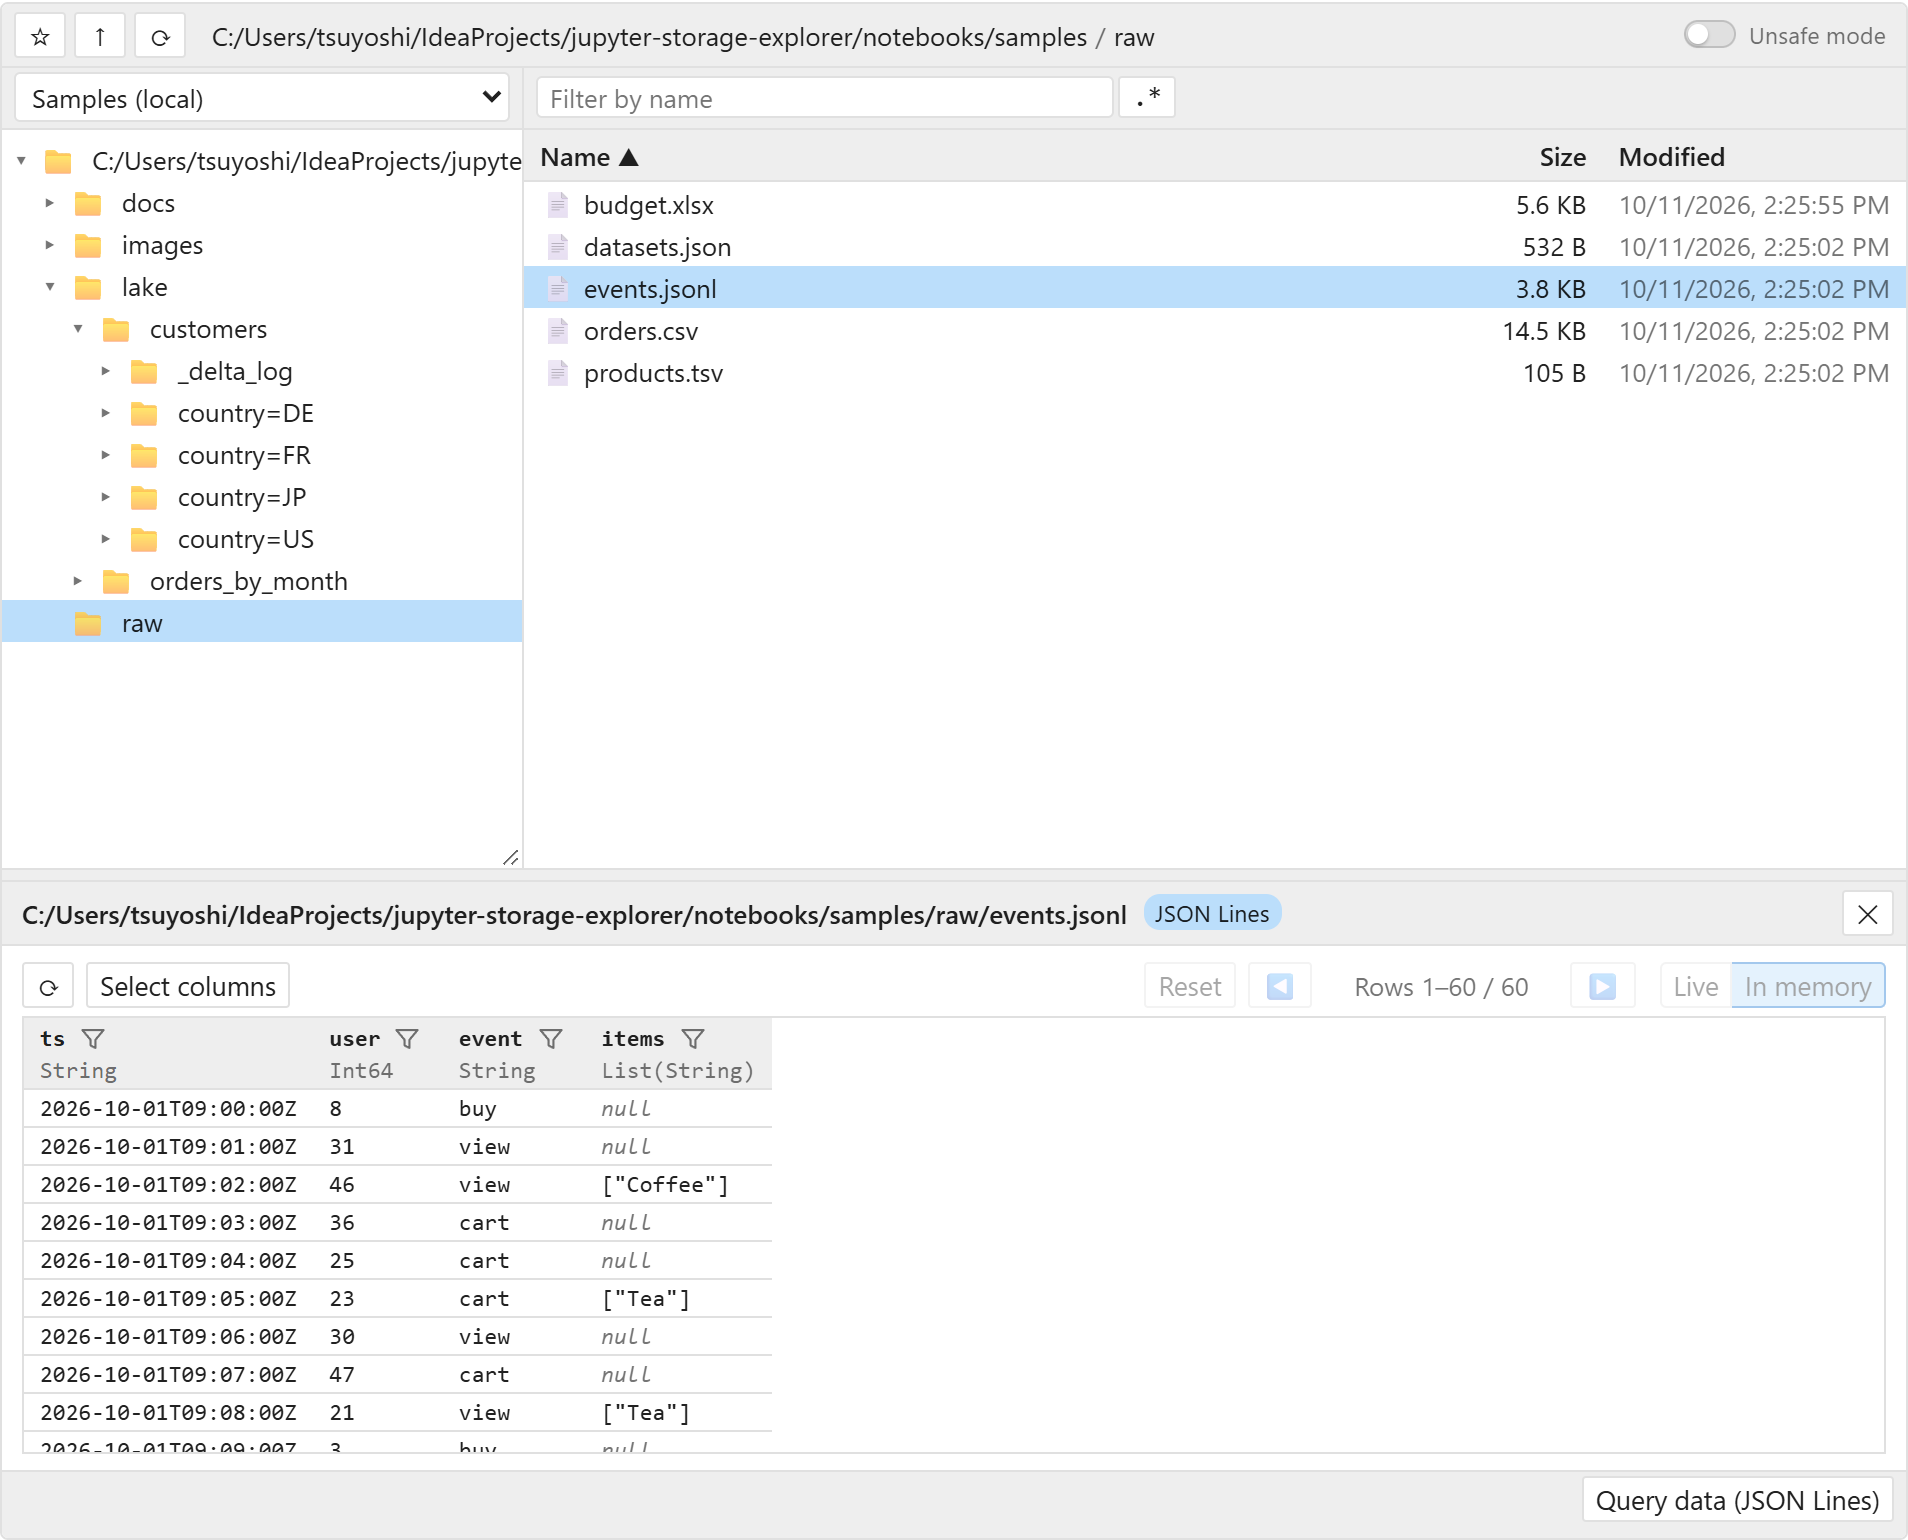
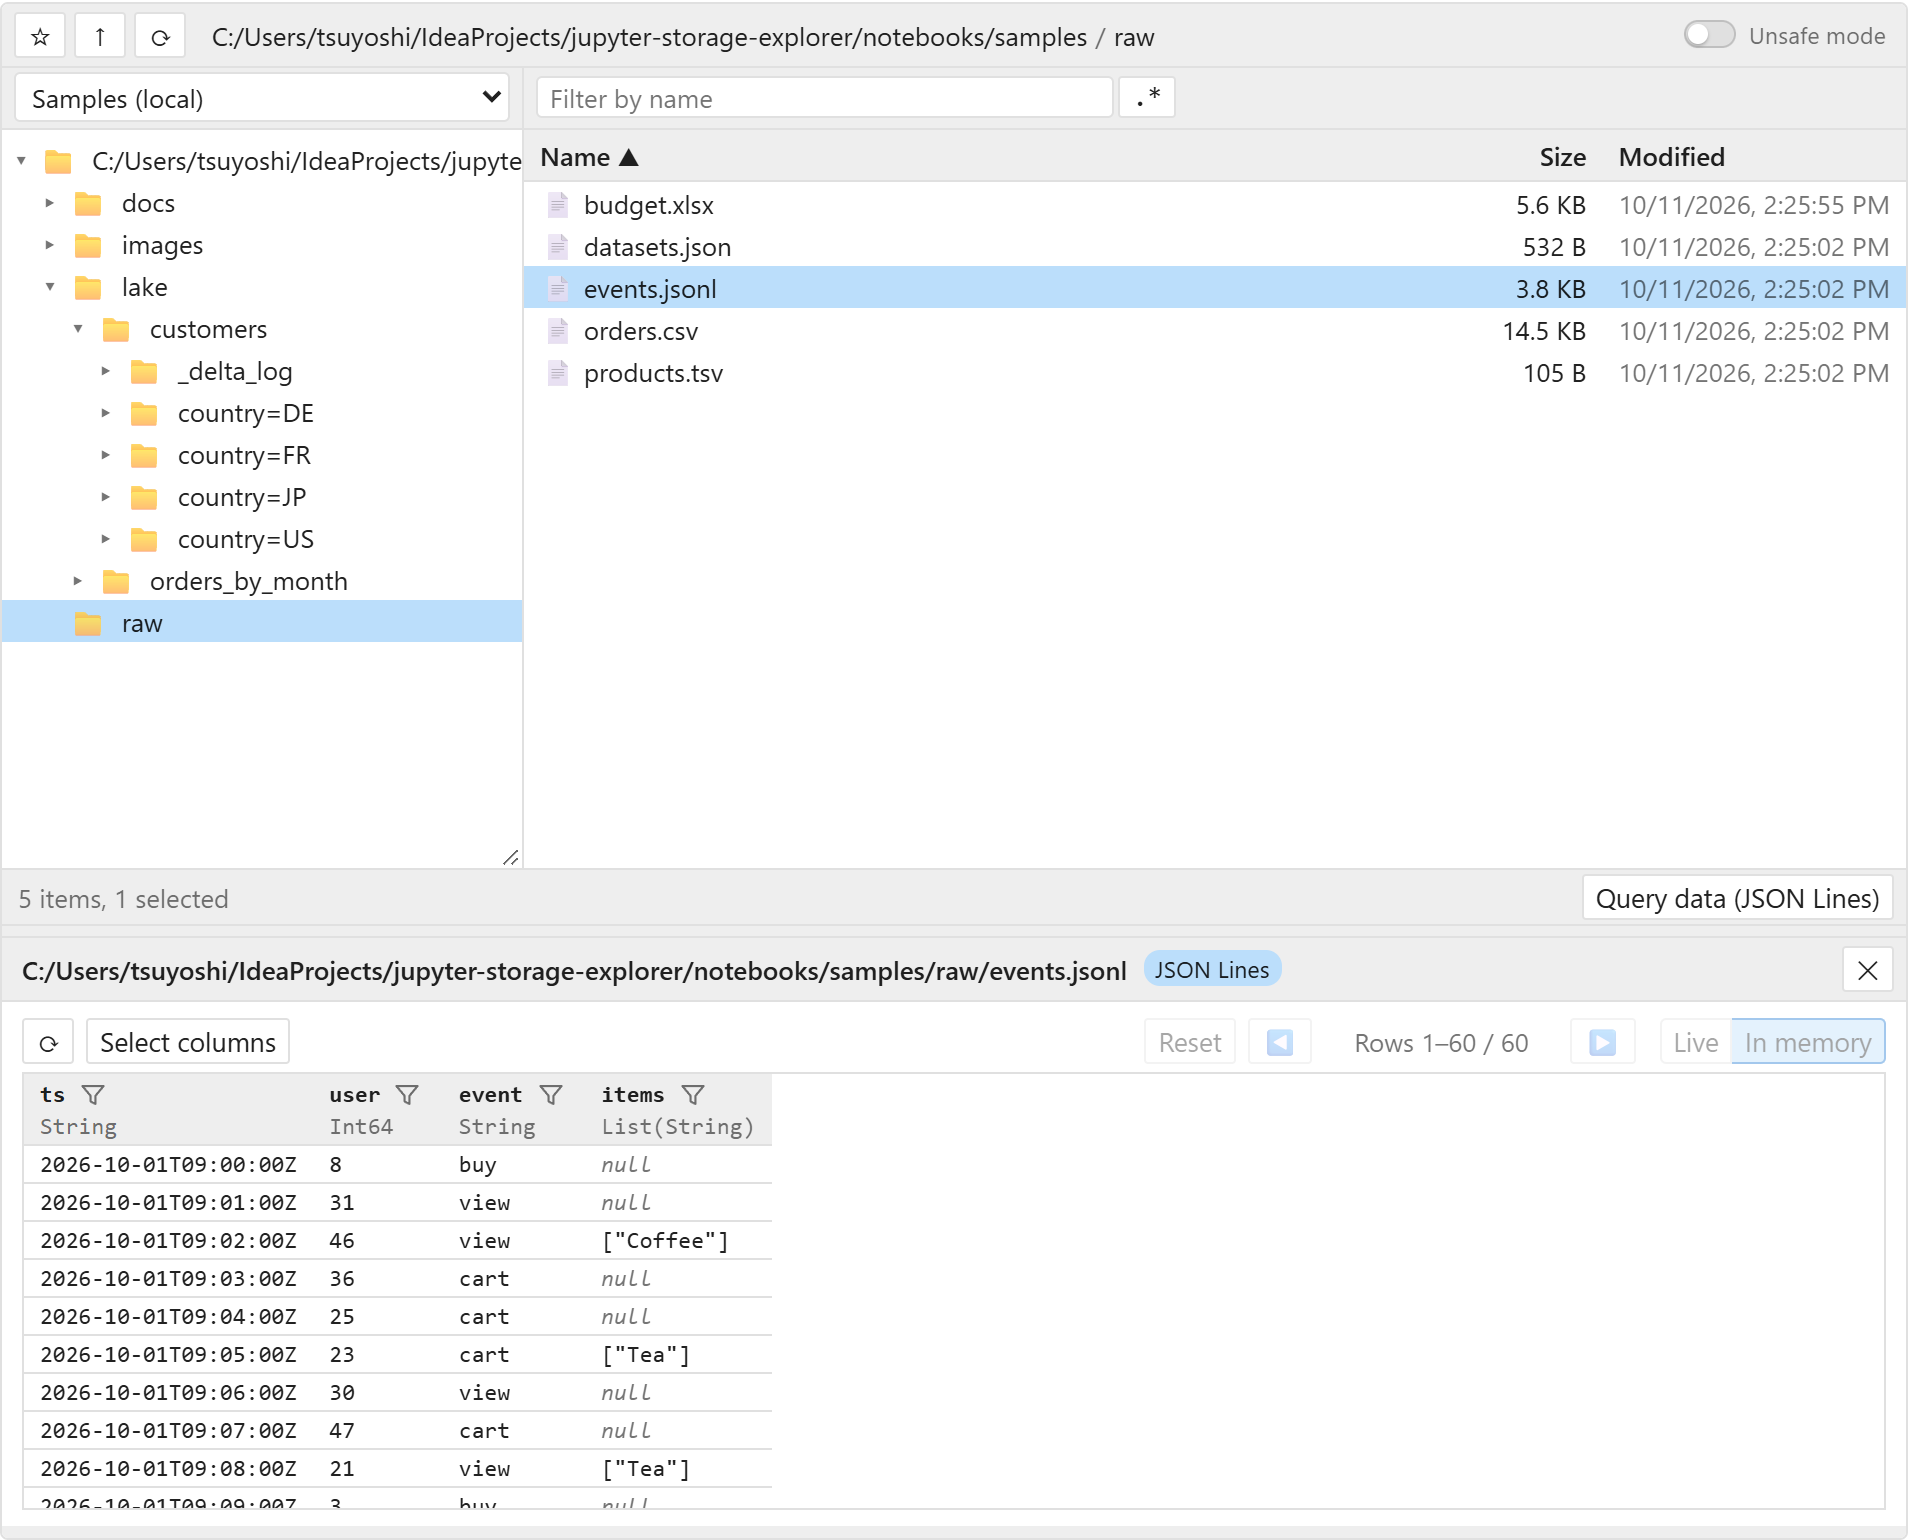
Status bar under the list, above the preview panel
With the preview panel open, the status bar came after it, and in a
filled container of little height (the launcher's tab) it was pushed past
the bottom edge, Preview with it. It now follows the list (jobs above it),
the preview panel after it, so the item count shows while a preview is
open too. Filling, the preview panel shrinks to its minimum height rather
than overflow.

Claude-Session: https://claude.ai/code/session_01HAwtBQoU26mZV3X6NRDYj5

diff --git a/src/jupyter_storage_explorer/static/storage_explorer.js b/src/jupyter_storage_explorer/static/storage_explorer.js
@@ -220,7 +220,7 @@ function render({ model, el }) {
     h("span", { className: "jse-switch", ariaHidden: "true" }),
     unsafeLabel,
   );
-  // The status bar: messages on the left (hidden with the preview panel open), Preview on the right.
+  // The status bar: messages on the left, Preview on the right.
   const statusBarEl = h("div", { className: "jse-status-bar" }, statusEl, previewBtn);
   // Tree and list; its height is the `height` trait until resized by dragging.
   // Above each pane, a bar: the filesystem chooser for the tree; for the list,
@@ -323,12 +323,15 @@ function render({ model, el }) {
   // Jobs running in the kernel (moves, deletions, pastes, downloads), one row
   // each, above the status bar; see "Jobs" below.
   const jobsEl = h("div", { className: "jse-jobs", hidden: true });
+  // The status bar belongs to the list, so it stays under it, above the
+  // preview panel: Preview and the item count stay in view when the panel
+  // opens.
   el.replaceChildren(
     h("div", { className: "jse-toolbar" }, bookmarkBtn, upBtn, refreshBtn, pathEl, unsafeEl),
     panesEl,
-    previewEl,
     jobsEl,
     statusBarEl,
+    previewEl,
     grip,
     dialogEl,
     editorEl,
@@ -502,10 +505,9 @@ function render({ model, el }) {
   // --- Right-click menu ---
 
   let flashTimer;
-  // A short message in the status bar, shown even while it is otherwise hidden.
+  // A short message in the status bar, in place of the item count.
   function flash(message) {
     statusEl.textContent = message;
-    statusEl.hidden = false;
     clearTimeout(flashTimer);
     flashTimer = setTimeout(() => {
       flashTimer = null;
@@ -2081,10 +2083,6 @@ function render({ model, el }) {
     if (flashTimer) return; // a message is showing; it calls back when done
     const error = model.get("_error");
     statusEl.classList.toggle("jse-error", Boolean(error));
-    // Errors always show. The item count is about the file list, so it is
-    // hidden while the preview panel (just above the status bar) is open,
-    // where it could be mistaken for a count of the previewed data.
-    statusEl.hidden = !error && !previewEl.hidden;
     if (error) {
       statusEl.textContent = error;
       return;
@@ -2250,7 +2248,6 @@ function render({ model, el }) {
     }
     if (!preview.path) {
       previewEl.hidden = true;
-      renderStatus(); // the item count shows again
       return;
     }
     const opening = previewEl.hidden || previewHead.dataset.path !== preview.path;
@@ -2279,10 +2276,7 @@ function render({ model, el }) {
     }
     previewBody.replaceChildren(...body);
     previewEl.hidden = false;
-    if (opening) {
-      previewBody.scrollTop = 0;
-      renderStatus(); // hides the item count
-    }
+    if (opening) previewBody.scrollTop = 0;
   }
 
   // --- Resizing by dragging; heights set here are kept until `height` changes ---

diff --git a/src/jupyter_storage_explorer/static/storage_explorer.css b/src/jupyter_storage_explorer/static/storage_explorer.css
@@ -235,6 +235,12 @@
   outline: none;
 }
 
+/* Filling: shrinks (to its min-height) rather than push the widget past the
+   bottom of a short container. */
+.jse-browser.jse-fill .jse-preview-panel {
+  flex: 0 1 auto;
+}
+
 .jse-preview-panel[hidden] {
   display: none;
 }

diff --git a/docs/storage-explorer.md b/docs/storage-explorer.md
@@ -90,7 +90,7 @@ Type in the field above the list to show names containing the text, or matching 
 
 ### Preview
 
-Double-click a file, or **Preview** at the bottom right (with nothing selected: the current folder, e.g. a Delta Lake table), or right-click
+Double-click a file, or **Preview** below the list (with nothing selected: the current folder, e.g. a Delta Lake table), or right-click
 → **Preview**; **Preview as** chooses another format. Tables open in the [data browser](#query-data).
 
 <img src="figs/using-preview.png" width="562" alt="Preview in the status bar, and Preview as in the right-click menu of a Markdown file">
